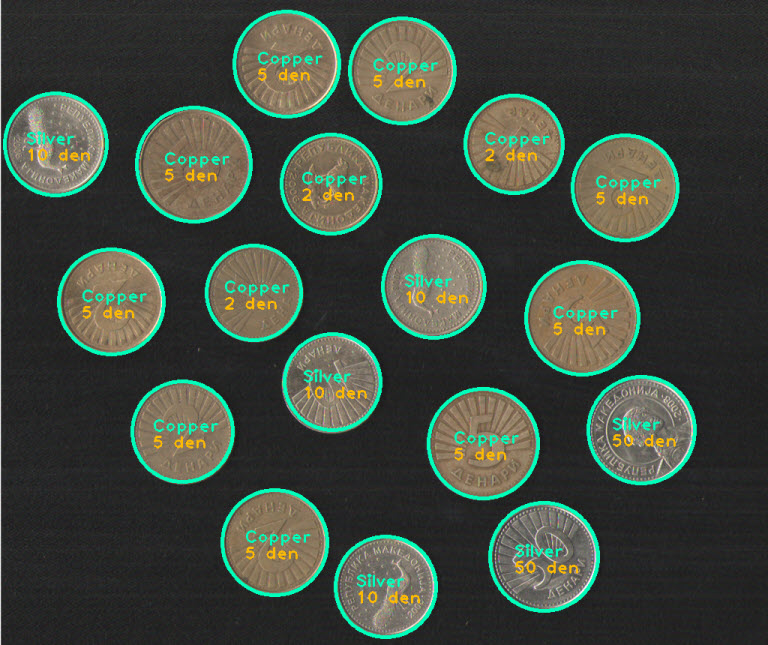
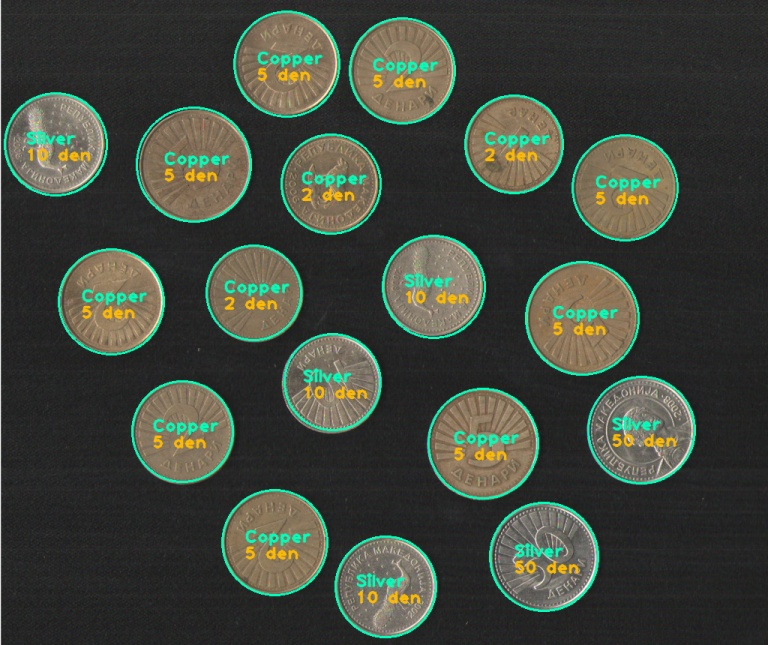
Small fixes.

diff --git a/coin-detection.py b/coin-detection.py
@@ -24,10 +24,10 @@ def get_histogram(image):
     # create mask
     mask = np.zeros(image.shape[:2], dtype="uint8")
     (width, height) = (int(image.shape[1] / 2), int(image.shape[0] / 2))
-    cv2.circle(mask, (width, height), radius=60, color=(255, 255, 255))
+    cv2.circle(mask, (width, height), 60, 255, -1)
 
     # calcHist expects a list of images, color channels, mask, bins, ranges
-    height = cv2.calcHist([image], [0, 1, 2], mask, [16, 16, 16], [0, 256, 0, 256, 0, 256])
+    height = cv2.calcHist([image], [0, 1, 2], mask, [8, 8, 8], [0, 256, 0, 256, 0, 256])
 
     return cv2.normalize(height, height).flatten()
 
@@ -76,7 +76,6 @@ print("Classifier test mean accuracy: ", score)
 blurred = cv2.GaussianBlur(gray, (7, 7), 0)
 circles = cv2.HoughCircles(blurred, cv2.HOUGH_GRADIENT, dp=2.2, minDist=100, param1=200, param2=100, minRadius=50, maxRadius=120)
 
-
 diameter = []
 materials = []
 coordinates = []
@@ -84,7 +83,7 @@ coordinates = []
 count = 0
 if circles is not None:
     for (x, y, r) in circles[0, :]:
-        diameter.append(2*r)
+        diameter.append(r)
 
     circles = np.round(circles[0, :]).astype("int")
 
@@ -95,19 +94,31 @@ if circles is not None:
         material = get_material(clf, roi)
         materials.append(material)
 
-        cv2.circle(output, (x, y), d, (187, 255, 0), 3)
-        cv2.putText(output, material, (x - 40, y), cv2.FONT_HERSHEY_PLAIN, 1.5, (187, 255, 0), thickness=2, lineType=cv2.LINE_4)
+        cv2.circle(output, (x, y), d, (187, 255, 0), 2)
+        cv2.putText(output, material, (x - 40, y), cv2.FONT_HERSHEY_PLAIN, 1.5, (187, 255, 0), thickness=2, lineType=cv2.LINE_AA)
+
+biggest = max(diameter)
+i = diameter.index(biggest)
+
+if materials[i] == "Silver":
+    diameter = [x / biggest * 19.45 for x in diameter]
+    scaledTo = "Scaled to 50 denars"
+elif materials[i] == "Copper":
+    diameter = [x / biggest * 21.95 for x in diameter]
+    scaledTo = "Scaled to 5 denars"
+else:
+    scaledTo = "unable to scale.."
 
 i = 0
 total = 0
 
 known_diameters = {
-                    '10 den': [19.25, 0.75, 'Silver', 10],
-                    '50 den': [21.45, 1.45, 'Silver', 50],
-                    '1 den': [17.95, 1.25, 'Copper', 1],
-                    '2 den': [19.25, 1.25, 'Copper', 2],
-                    '5 den': [21.95, 2.5, 'Copper', 5]
-                   }
+    '10 den': [19.25, 0.75, 'Silver', 10],
+    '50 den': [21.45, 1.45, 'Silver', 50],
+    '1 den': [17.95, 1.25, 'Copper', 1],
+    '2 den': [19.25, 1.25, 'Copper', 2],
+    '5 den': [21.95, 2.5, 'Copper', 5]
+}
 while i < len(diameter):
     d = diameter[i]
     m = materials[i]
@@ -120,11 +131,16 @@ while i < len(diameter):
             total += known_diameters[key][3]
 
     # write result on output image
-    cv2.putText(output, t, (x - 40, y + 22), cv2.FONT_HERSHEY_PLAIN, 1.5, (3, 186, 252), thickness=2, lineType=cv2.LINE_4)
+    cv2.putText(output, t, (x - 40, y + 22), cv2.FONT_HERSHEY_PLAIN, 1.5, (3, 186, 252), thickness=2, lineType=cv2.LINE_AA)
     i += 1
+
+# resize output image while retaining aspect ratio
+d = 768 / output.shape[1]
+dim = (768, int(output.shape[0] * d))
+image = cv2.resize(image, dim, interpolation=cv2.INTER_AREA)
+output = cv2.resize(output, dim, interpolation=cv2.INTER_AREA)
 
 print('======= Summary: =======')
 print(f'Coins detected: {count}, MKD {total:2}')
 
-cv2.imshow('out', output)
-cv2.waitKey(0)
+cv2.imwrite('marked_coins.jpg', output)

diff --git a/README.md b/README.md
@@ -5,3 +5,9 @@ we have collected a dataset of images of MKD coins, and trained a classifier (ML
 The end product of this program is the sum of coins on the image, and the recognised coins marked on the image.
 
 ![alt text](marked_coins.jpg)
+
+Classifier train mean accuracy:  100.0
+Classifier test mean accuracy:  100.0
+
+======= Summary: =======
+Coins detected: 18, MKD 205
